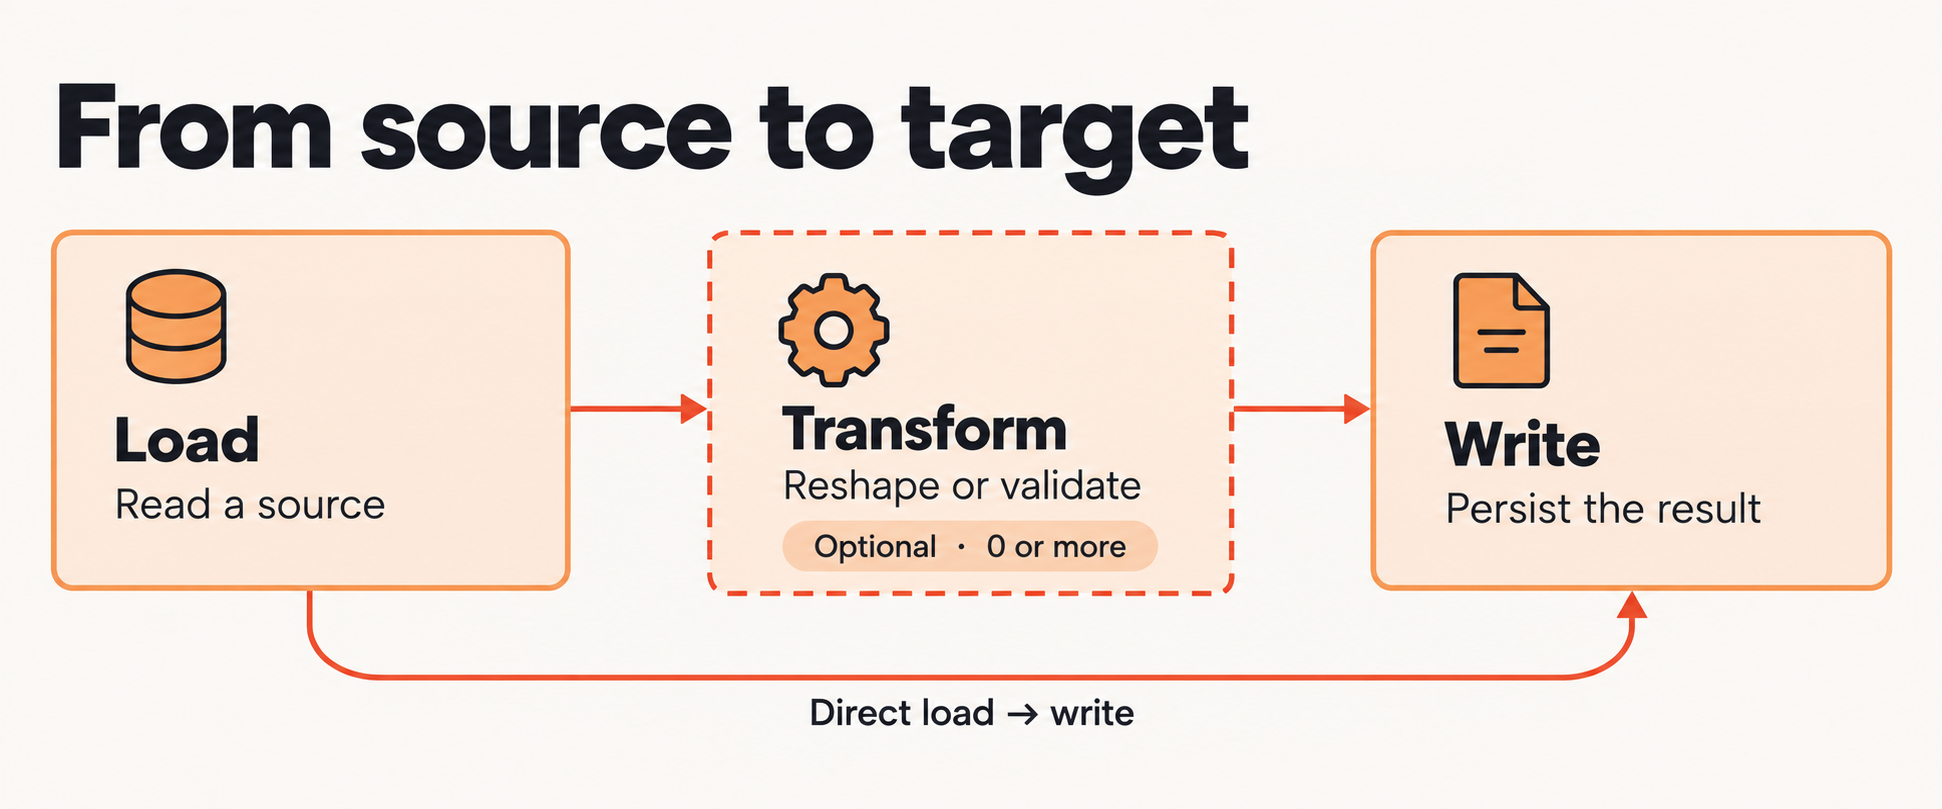
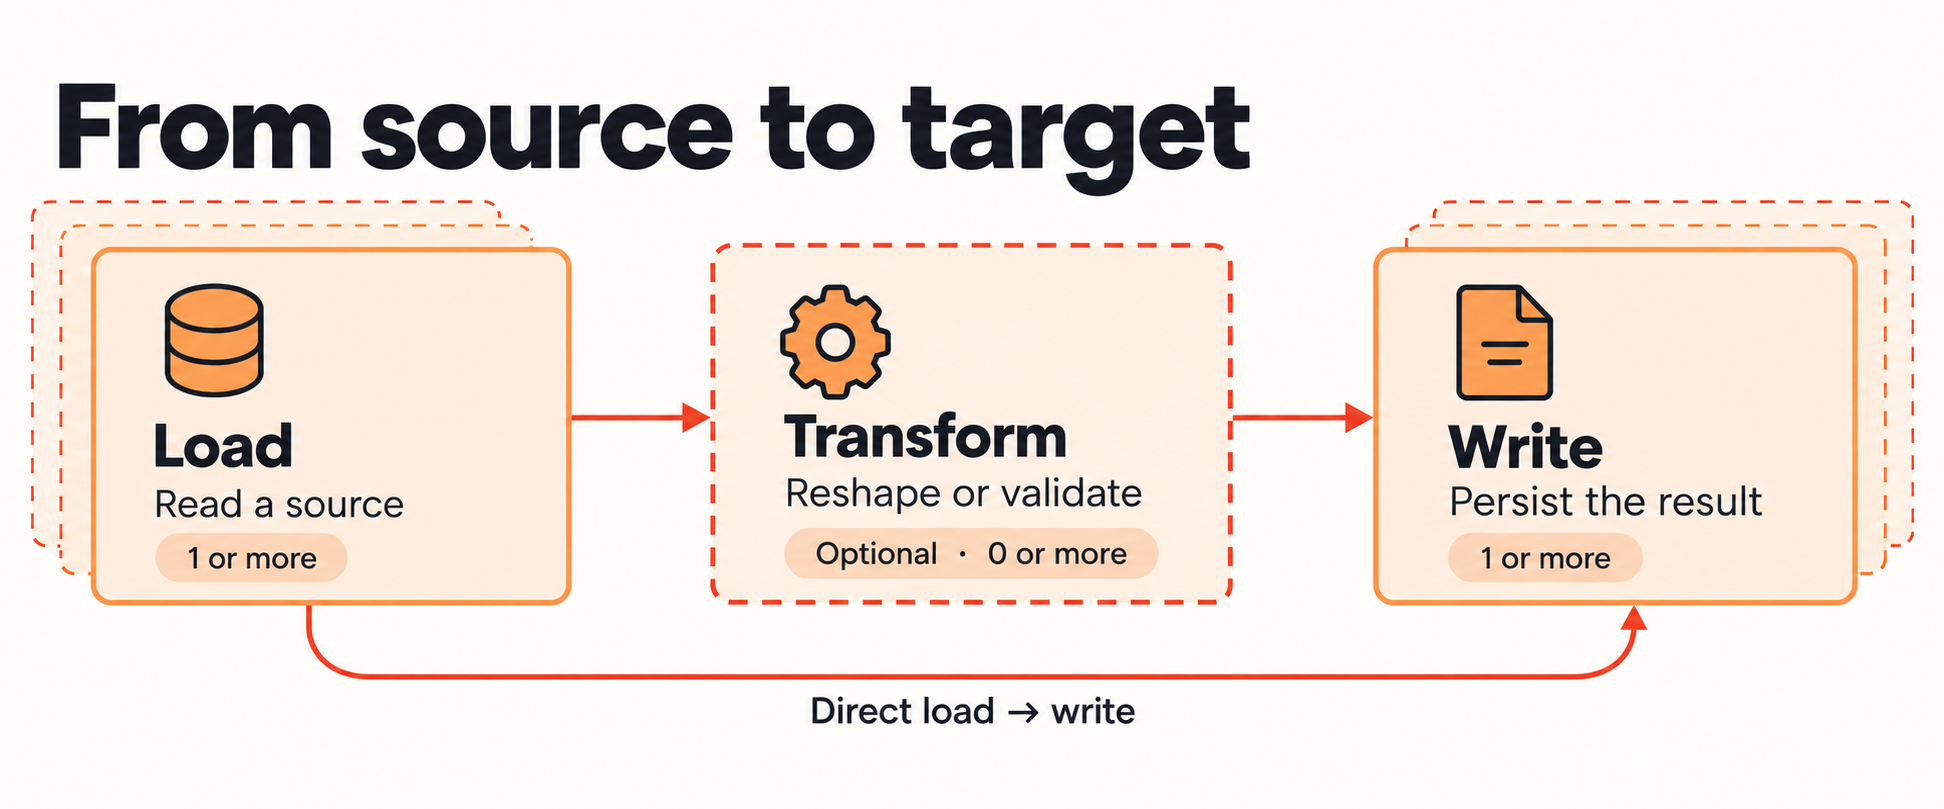
docs: show multiple loads and writes and map LHP capabilities

diff --git a/docs/index.rst b/docs/index.rst
@@ -72,15 +72,42 @@ sample project. Then :doc:`build/first-pipeline` helps you author your own.
 The model
 =========
 
-A common data-flow shape is to load a source, apply zero or more transforms,
-and write a target.
+A common data-flow shape combines one or more loads, zero or more transforms,
+and one or more writes. Actions connect through the views they read and produce.
 
 .. figure:: _static/diagrams/action-model.png
-   :alt: Load reads a source into a view. Optional transforms reshape or validate it before Write persists the result. A bypass connects Load directly to Write when no transform is needed.
+   :alt: A common flow has one or more Load actions, zero or more Transform actions and one or more Write actions. Faded, dotted cards behind Load and Write represent additional actions. A bypass connects Load directly to Write when no transform is needed.
    :width: 100%
    :figclass: lhp-diagram
 
-   A transform is optional; the load can feed the write directly. Select the diagram to view it full size.
+   Dotted cards represent additional loads and writes. Transforms are optional,
+   so a load can feed a write directly. Select the diagram to view it full size.
+
+What LHP handles for you
+========================
+
+Start with a source and a target, then enable the capabilities your project
+needs. Monitoring and quarantine extend the same declarative approach to
+operating pipelines and recovering rejected rows.
+
+.. figure:: _static/diagrams/capability-overview.png
+   :alt: Six LHP capability groups: author and reuse with presets, templates, blueprints, environment values and developer tools; read and transform multiple sources; write and publish with CDC, replacement, views, sinks and tags; check and recover with expectations, tests and quarantine recycling; develop and deliver with validation, sandboxing, jobs, bundles and CI; observe and operate with centralized event logs, summary views and optional job correlation.
+   :width: 100%
+   :figclass: lhp-diagram
+
+   LHP generates the code and configuration for the capabilities you enable.
+   Select the diagram to view it full size.
+
+- **Author and reuse:** :doc:`build/compose`,
+  :doc:`environment values and secrets <guides/reuse-and-scale/substitutions-and-secrets>`.
+- **Read and transform:** :doc:`sources <guides/ingest/index>`,
+  :doc:`transformations <guides/transform/index>`, :doc:`build/metadata`.
+- **Write and publish:** :doc:`streaming tables, views and sinks <guides/write/index>`.
+- **Check and recover:** :doc:`data quality <guides/transform/data-quality>`,
+  :doc:`quarantine and recycling <guides/transform/quarantine>`.
+- **Develop and deliver:** :doc:`develop/index`.
+- **Observe and operate:** :doc:`centralized monitoring <guides/ops/monitoring>`,
+  :doc:`dependency diagnostics <guides/ops/dependency-analysis>`.
 
 Where to next
 =============
